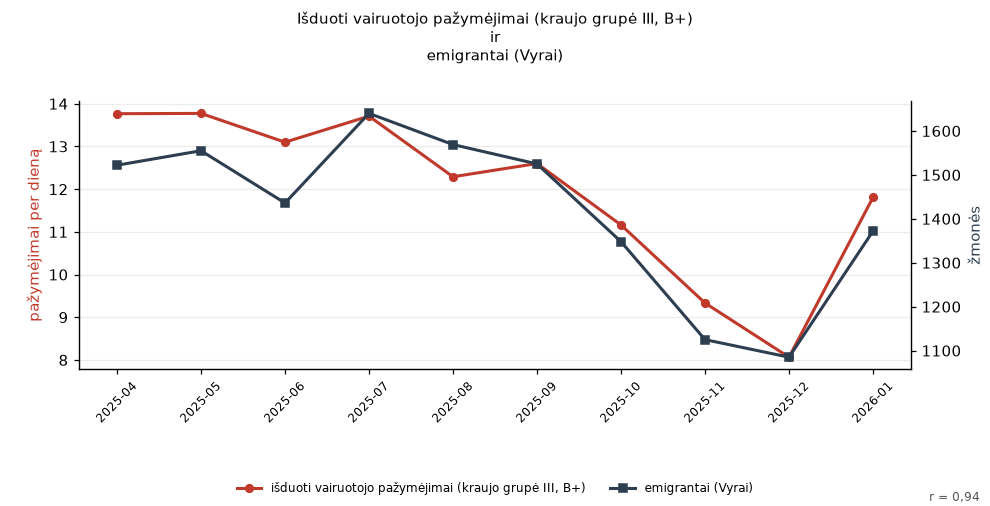
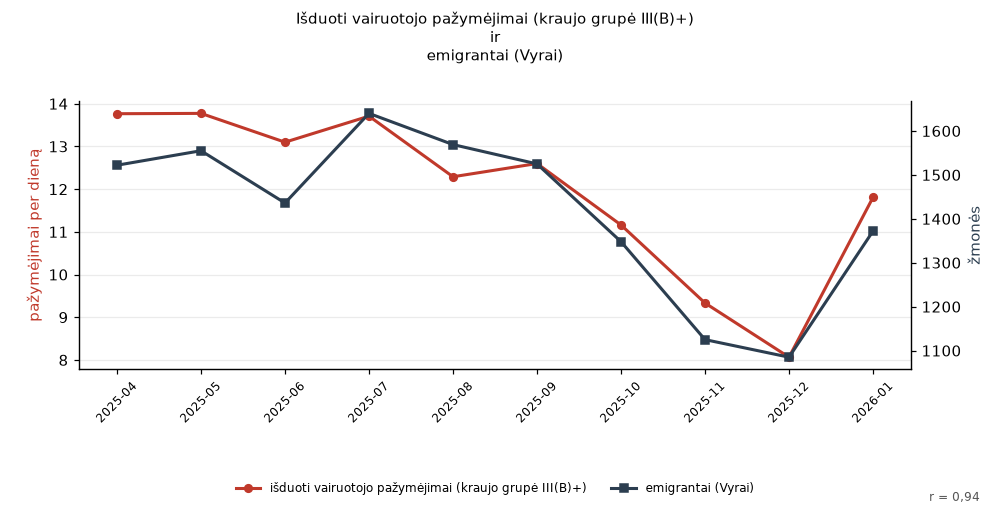
Post: blood group label

Changed region(s): [[0.303, 0.0296, 0.697, 0.0593], [0.2727, 0.9486, 0.6061, 0.9783], [0.6364, 0.9486, 0.7576, 0.9783]]

diff --git a/post/2026-10-23-eed71784/index.html b/post/2026-10-23-eed71784/index.html
@@ -1,10 +1,10 @@
 <!doctype html>
 <html lang="lt"><head><meta charset="utf-8">
 <meta name="viewport" content="width=device-width, initial-scale=1">
-<title>2025–2026 m. lyg tyčia sutapo: išduoti vairuotojo pažymėjimai (kraujo grupė III, B+) ir emigrantai (Vyrai) · Lyg tyčia</title>
+<title>2025–2026 m. lyg tyčia sutapo: išduoti vairuotojo pažymėjimai (kraujo grupė III(B)+) ir emigrantai (Vyrai) · Lyg tyčia</title>
 <meta property="og:type" content="article">
 <meta property="og:site_name" content="Lyg tyčia">
-<meta property="og:title" content="2025–2026 m. lyg tyčia sutapo: išduoti vairuotojo pažymėjimai (kraujo grupė III, B+) ir emigrantai (Vyrai)">
+<meta property="og:title" content="2025–2026 m. lyg tyčia sutapo: išduoti vairuotojo pažymėjimai (kraujo grupė III(B)+) ir emigrantai (Vyrai)">
 <meta property="og:description" content="Išduoti vairuotojo pažymėjimai (kraujo grupė III, B+) ir emigrantai (Vyrai) kyla ir krenta kartu: r = 0,94 per 10 mėn. (2025-04 – 2026-01).">
 <meta property="og:url" content="https://1gnas3000.github.io/lygtycia/post/2026-10-23-eed71784/">
 <meta property="og:image" content="https://1gnas3000.github.io/lygtycia/post/2026-10-23-eed71784/chart.png">
@@ -26,18 +26,18 @@
 <article><p class="meta">2026-10-23
  · panašios kreivės · mėnesio duomenys
  · r = 0,94</p>
-<h2>2025–2026 m. lyg tyčia sutapo: išduoti vairuotojo pažymėjimai (kraujo grupė III, B+) ir emigrantai (Vyrai)</h2>
+<h2>2025–2026 m. lyg tyčia sutapo: išduoti vairuotojo pažymėjimai (kraujo grupė III(B)+) ir emigrantai (Vyrai)</h2>
 
 <p><a href="../../post/2026-10-23-eed71784/"><img src="../../post/2026-10-23-eed71784/chart.png"
  alt="grafikas" loading="lazy"></a></p>
 <p class="sources">Duomenų šaltiniai:
  <a href="https://get.data.gov.lt/datasets/gov/regitra/ktpvr/Pazymejimas" rel="noopener">Išduoti vairuotojo pažymėjimai (Regitra)</a> · <a href="https://osp.stat.gov.lt/statistiniu-rodikliu-analize?indicator=S3R110" rel="noopener">Emigrantai per mėnesį (Valstybės duomenų agentūra)</a></p>
 
-<p class="text">Išduoti vairuotojo pažymėjimai (kraujo grupė III, B+) ir emigrantai (Vyrai) kyla ir krenta kartu: r = 0,94 per 10 mėn. (2025-04 – 2026-01).</p><p class="text">Duomenys: „išduoti vairuotojo pažymėjimai (kraujo grupė III, B+)“ (pažymėjimai) ir „emigrantai (Vyrai)“ (žmonės).</p><p class="text">Tyler Vigen&#39;o „Spurious Correlations“ dvasia: iš tūkstančių atsitiktinių Lietuvos atvirų duomenų porų šios dvi nupiešė tą pačią kreivę.</p>
+<p class="text">Išduoti vairuotojo pažymėjimai (kraujo grupė III, B+) ir emigrantai (Vyrai) kyla ir krenta kartu: r = 0,94 per 10 mėn. (2025-04 – 2026-01).</p><p class="text">Duomenys: „išduoti vairuotojo pažymėjimai (kraujo grupė III(B)+)“ (pažymėjimai) ir „emigrantai (Vyrai)“ (žmonės).</p><p class="text">Tyler Vigen&#39;o „Spurious Correlations“ dvasia: iš tūkstančių atsitiktinių Lietuvos atvirų duomenų porų šios dvi nupiešė tą pačią kreivę.</p>
 <p class="share">Dalintis:
  <a href="https://www.facebook.com/sharer/sharer.php?u=https%3A//1gnas3000.github.io/lygtycia/post/2026-10-23-eed71784/"
  rel="noopener">Facebook</a> ·
- <a href="https://mastodonshare.com/?text=2025%E2%80%932026%20m.%20lyg%20ty%C4%8Dia%20sutapo%3A%20i%C5%A1duoti%20vairuotojo%20pa%C5%BEym%C4%97jimai%20%28kraujo%20grup%C4%97%20III%2C%20B%2B%29%20ir%20emigrantai%20%28Vyrai%29&url=https%3A//1gnas3000.github.io/lygtycia/post/2026-10-23-eed71784/"
+ <a href="https://mastodonshare.com/?text=2025%E2%80%932026%20m.%20lyg%20ty%C4%8Dia%20sutapo%3A%20i%C5%A1duoti%20vairuotojo%20pa%C5%BEym%C4%97jimai%20%28kraujo%20grup%C4%97%20III%28B%29%2B%29%20ir%20emigrantai%20%28Vyrai%29&url=https%3A//1gnas3000.github.io/lygtycia/post/2026-10-23-eed71784/"
  rel="noopener">Mastodon</a> ·
  <a href="https://www.linkedin.com/sharing/share-offsite/?url=https%3A//1gnas3000.github.io/lygtycia/post/2026-10-23-eed71784/"
  rel="noopener">LinkedIn</a></p>

diff --git a/index.html b/index.html
@@ -18,7 +18,7 @@
 <p class="meta">Kasdien – dvi Lietuvos atvirų duomenų kreivės, kurios lyg tyčia sutapo.</p>
 </header>
 <article><p class="meta">2026-10-23</p>
-<h2><a href="./post/2026-10-23-eed71784/">2025–2026 m. lyg tyčia sutapo: išduoti vairuotojo pažymėjimai (kraujo grupė III, B+) ir emigrantai (Vyrai)</a></h2>
+<h2><a href="./post/2026-10-23-eed71784/">2025–2026 m. lyg tyčia sutapo: išduoti vairuotojo pažymėjimai (kraujo grupė III(B)+) ir emigrantai (Vyrai)</a></h2>
 
 <p><a href="./post/2026-10-23-eed71784/"><img src="./post/2026-10-23-eed71784/chart.png"
  alt="grafikas" loading="lazy"></a></p>
@@ -29,7 +29,7 @@
 <p class="share">Dalintis:
  <a href="https://www.facebook.com/sharer/sharer.php?u=https%3A//1gnas3000.github.io/lygtycia/post/2026-10-23-eed71784/"
  rel="noopener">Facebook</a> ·
- <a href="https://mastodonshare.com/?text=2025%E2%80%932026%20m.%20lyg%20ty%C4%8Dia%20sutapo%3A%20i%C5%A1duoti%20vairuotojo%20pa%C5%BEym%C4%97jimai%20%28kraujo%20grup%C4%97%20III%2C%20B%2B%29%20ir%20emigrantai%20%28Vyrai%29&url=https%3A//1gnas3000.github.io/lygtycia/post/2026-10-23-eed71784/"
+ <a href="https://mastodonshare.com/?text=2025%E2%80%932026%20m.%20lyg%20ty%C4%8Dia%20sutapo%3A%20i%C5%A1duoti%20vairuotojo%20pa%C5%BEym%C4%97jimai%20%28kraujo%20grup%C4%97%20III%28B%29%2B%29%20ir%20emigrantai%20%28Vyrai%29&url=https%3A//1gnas3000.github.io/lygtycia/post/2026-10-23-eed71784/"
  rel="noopener">Mastodon</a> ·
  <a href="https://www.linkedin.com/sharing/share-offsite/?url=https%3A//1gnas3000.github.io/lygtycia/post/2026-10-23-eed71784/"
  rel="noopener">LinkedIn</a></p></article>
